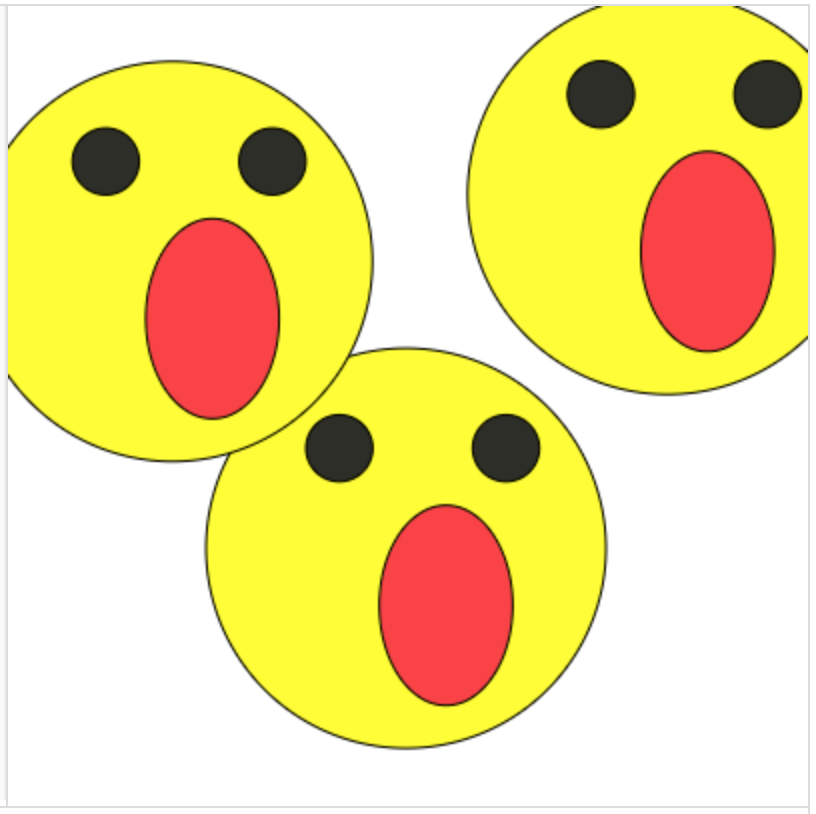
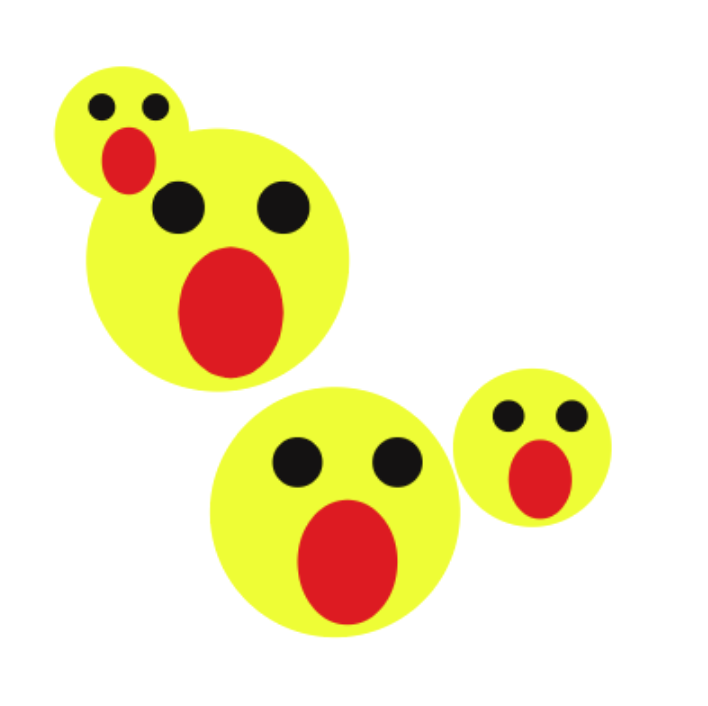
Updated chapter Function

diff --git a/Notes-1-IntroToJS/8-Functions.html b/Notes-1-IntroToJS/8-Functions.html
@@ -328,40 +328,105 @@ kbd {
 
 <body>
 
-<h2 id="toc_0">Functions</h2>
+<h2 id="toc_0">Functions 方法/函数</h2>
 
-<h3 id="toc_1">Define function and call it</h3>
+<h3 id="toc_1">Define function and call it 定义方法，然后使用它</h3>
+
+<p><a href="https://www.khanacademy.org/computer-programming/function/4631959380246528">Example code: function 方法</a></p>
 
 <div>
-<img src="Images/winston.png" height="300"/>
 <img src="Images/winstonMultiple.png" height="300"/>
 </div>
 
-<div>
-<img src="Images/function.png" height="300"/>
-</div>
+<div><pre><code class="language-none">// Define function 定义一个新方法
+var drawFace = function(){
+    var faceX = random(0, 400);
+    var faceY = random(0, 400);
+    var faceSize = random(50, 150);
+    
+    // face
+    noStroke();
+    fill(238, 255, 0);
+    ellipse(faceX, faceY, faceSize, faceSize);
+    // eyes
+    fill(20, 18, 18);
+    ellipse(faceX-faceSize*0.15, faceY-faceSize*0.2, faceSize*0.2, faceSize*0.2);
+    ellipse(faceX+faceSize*0.25, faceY-faceSize*0.2, faceSize*0.2, faceSize*0.2);
+    // mouth
+    fill(224, 22, 22);
+    ellipse(faceX+faceSize*0.05, faceY+faceSize*0.2, faceSize*0.4, faceSize*0.5);
+};
 
-<p>Define function and then call / use it multiple (three) times, drawing winston faces at random positions and a fixed size of 200p pixels. <a href="https://www.khanacademy.org/computer-programming/function/4631959380246528">Example code as right above.</a> By this way, we make the code reusable. Great!</p>
+// Use or say call the function 
+// 使用或者叫&quot;调用&quot;我们定义的方法
+drawFace();
+drawFace();
+drawFace();</code></pre></div>
 
-<h3 id="toc_2">Function parameters</h3>
+<p>By defining code as function, we make the code reusable. Great!</p>
+
+<p>把一段代码定义成“方法”，我们就可以方便地复用（重复使用）这些代码了！牛～～</p>
+
+<h3 id="toc_2">Function parameters 使用参数，更牛掰地使用方法</h3>
+
+<p><a href="https://www.khanacademy.org/computer-programming/function-parameters/6469836223365120">Example code: function parameters 方法使用参数</a></p>
 
 <div>
 <img src="Images/winstonParameters.png" height="300"/>
 </div>
 
-<p>Use parameters to have more control on the function, by which we draw the winston at specified positions and sizes. <a href="https://www.khanacademy.org/computer-programming/function-parameters/6469836223365120">Example code as below</a></p>
+<p>Use parameters to have more control on the function, by which we draw the winston at specified positions and sizes.</p>
 
-<p><img src="Images/functionParameters.png" height="300"/></p>
+<p>使用参数，来更好地控制我们的方法：让飞机往哪儿飞～～😄</p>
 
-<h3 id="toc_3">Function return values</h3>
+<p>其实是告诉方法：具体在哪儿画这些脸？需要画多大？</p>
 
-<div>
-<img src="Images/functionReturnValues.png" height="300"/>
-</div>
+<div><pre><code class="language-none">// Define a function 定义一个方法，是带参数的
+var drawWinston = function(faceX, faceY, faceSize){
+    // face
+    noStroke();
+    fill(238, 255, 0);
+    ellipse(faceX, faceY, faceSize, faceSize);
+    
+    // eyes
+    fill(20, 18, 18);
+    ellipse(faceX-faceSize*0.15, faceY-faceSize*0.2, faceSize*0.2, faceSize*0.2);
+    ellipse(faceX+faceSize*0.25, faceY-faceSize*0.2, faceSize*0.2, faceSize*0.2);
+    
+    // mouth
+    fill(224, 22, 22);
+    ellipse(faceX+faceSize*0.05, faceY+faceSize*0.2, faceSize*0.4, faceSize*0.5);
+};
+
+
+// Call function with parameters 调用方法，给出具体参数～
+drawWinston(282, 287, 150);
+drawWinston(100, 300, 80);
+drawWinston(random(50, 350), random(100,350), random(100,200));
+</code></pre></div>
+
+<h3 id="toc_3">Function return values 函数返回值</h3>
+
+<p><a href="https://www.khanacademy.org/computer-programming/calculator-function-returns-value/5515567705964544">Example code: calculator 计算器示例</a></p>
 
 <p><img src="Images/functionReturnValues-Result.png" height="200"/></p>
 
-<p>Function gets inputs by parameters, computes result and returns the result value. <a href="https://www.khanacademy.org/computer-programming/calculator-function-returns-value/5515567705964544">Calculator: example code for function returning values.</a></p>
+<div><pre><code class="language-none">var add = function(a, b){
+    var result = a + b;
+    return result;
+};
+
+var subtract = function(a, b){
+    return a - b;
+};
+
+var multiply = function(a, b){
+    return a * b;
+};
+
+var divide = function(a, b){
+    return a / b;
+};</code></pre></div>
 
 <h2 id="toc_4">Local and global variables</h2>
 
